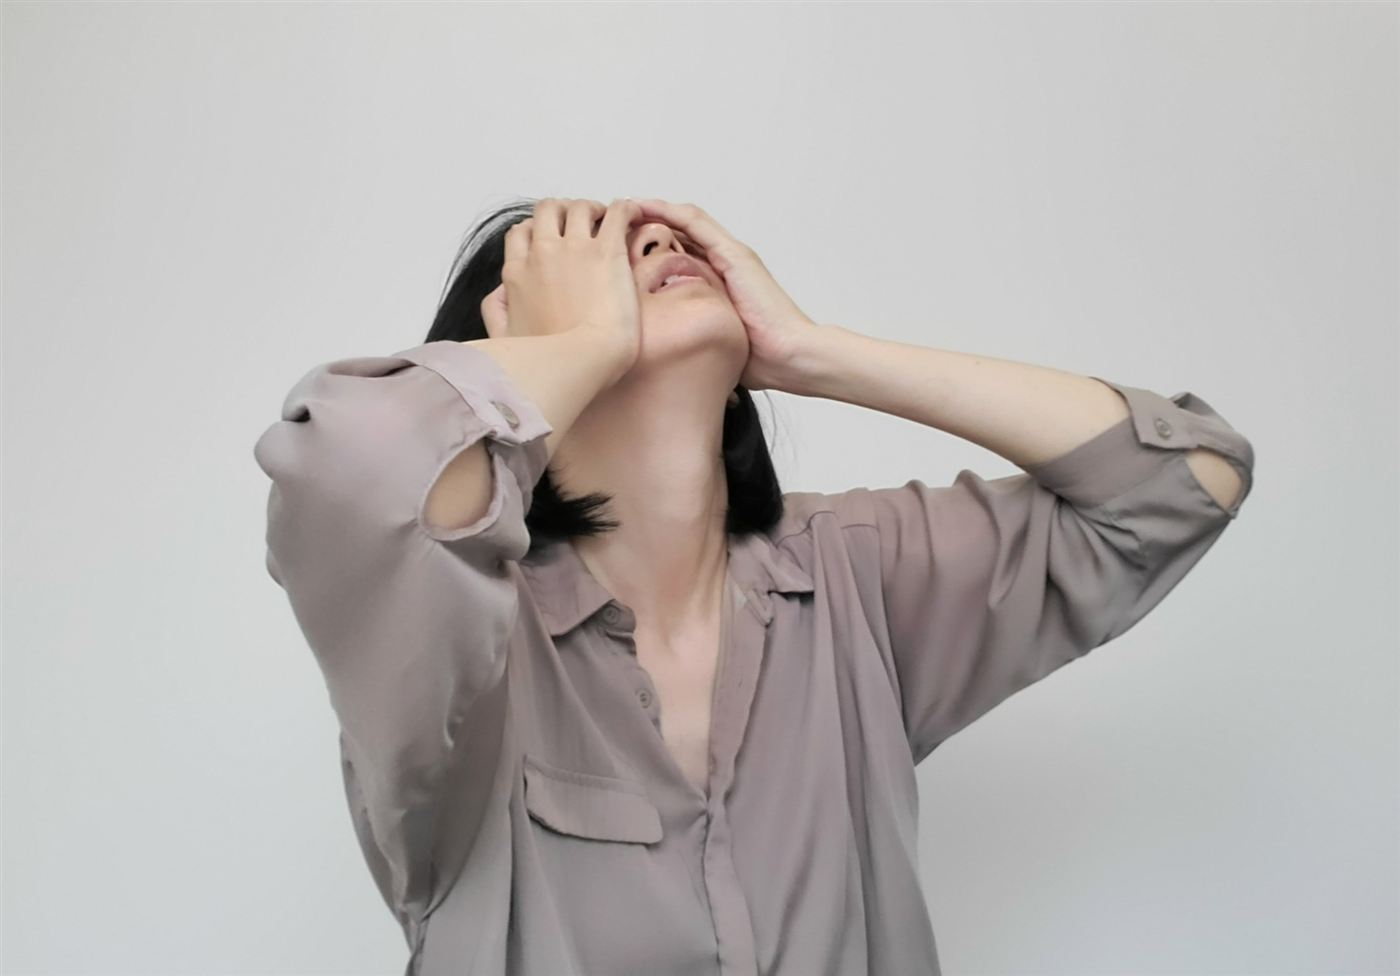
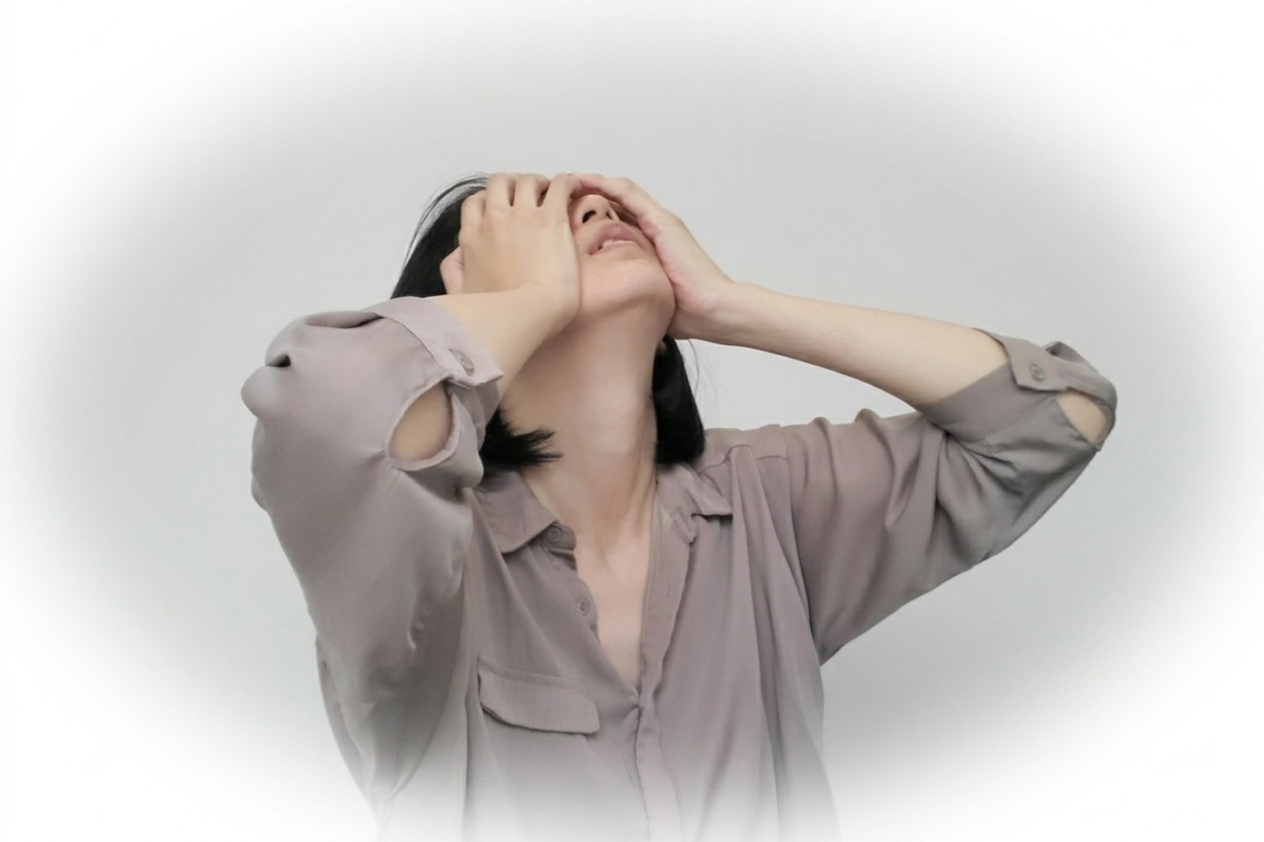
EQコアカード：05の写真3枚と08のセミナー写真を、縁を整えた新しい画像に差し替え／06の女性を明るく
- 新しい画像は周りがすでに白くぼかしてあるので、切り抜かず全体を表示し、ぼかしは継ぎ目を消す程度に
- 06：背景の女性をはっきり見えるよう明るくし、まわりの暗いぼかしはそのまま。写真に重なる説明文には薄い下地を付けて読みやすく

diff --git a/css/corecard.css b/css/corecard.css
@@ -385,3 +385,28 @@
   -webkit-mask-composite:source-in;
   mask-image:linear-gradient(90deg,transparent,#000 9%,#000 91%,transparent),linear-gradient(180deg,transparent,#000 7%,#000 93%,transparent);
   mask-composite:intersect}
+
+/* ---------- 2026-10-09b: the 05 and 08 photos arrive already feathered to white, so only a hairline blend remains ---------- */
+.cc-row--1 .cc-row__img::after,.cc-row--2 .cc-row__img::after,.cc-row--3 .cc-row__img::after{inset:0;box-shadow:inset 0 0 18px 6px var(--white)}
+.cc-photo--seminar img{
+  -webkit-mask-image:linear-gradient(90deg,transparent,#000 3%,#000 97%,transparent),linear-gradient(180deg,transparent,#000 3%,#000 97%,transparent);
+  mask-image:linear-gradient(90deg,transparent,#000 3%,#000 97%,transparent),linear-gradient(180deg,transparent,#000 3%,#000 97%,transparent)}
+.cc-row--1 .cc-row__img img,.cc-row--2 .cc-row__img img,.cc-row--3 .cc-row__img img{object-position:50% 50%}
+/* 06: the woman behind the words is clearly visible; the dark feather around her stays */
+.cc-photo--proc{--po:.92}
+.cc-photo--proc img{filter:brightness(1.12) saturate(.95)}
+.cc-proc__list .w{text-shadow:0 2px 24px rgba(13,20,36,.55)}
+.cc-proc__list .d{text-shadow:0 1px 10px rgba(13,20,36,.8)}
+/* the new photos are 3:2 with their own white vignette: show them whole, never cropped */
+.cc-sec.cc-words .cc-row--1 .cc-row__img,.cc-sec.cc-words .cc-row--2 .cc-row__img,.cc-sec.cc-words .cc-row--3 .cc-row__img{aspect-ratio:3/2;height:auto !important;max-height:none}
+.cc-sec.cc-words .cc-row--1 .cc-row__img{grid-column:6 / 13}
+.cc-sec.cc-words .cc-row--2 .cc-row__img{grid-column:1 / 7}
+.cc-sec.cc-words .cc-row--3 .cc-row__img{grid-column:1 / 8;margin-left:calc(var(--gx) * -1)}
+.cc-sec.cc-words .cc-row--1 .cc-row__text{grid-column:1 / 6}
+.cc-sec.cc-words .cc-row--3 .cc-row__text{grid-column:8 / 13;padding-left:clamp(10px,2vw,30px)}
+.cc-photo--seminar{aspect-ratio:3/2}
+.cc-proc__list .d{text-shadow:0 0 6px rgba(13,20,36,.95),0 0 14px rgba(13,20,36,.85),0 1px 2px rgba(13,20,36,.9)}
+.cc-photo--proc img{filter:brightness(1.05) saturate(.95)}
+.cc-row--1 .cc-row__img::after,.cc-row--2 .cc-row__img::after,.cc-row--3 .cc-row__img::after{inset:0;box-shadow:inset 0 0 30px 12px var(--white)}
+/* 06 captions that sit on the brighter photo get a soft dark backing so they stay readable */
+.cc-proc__list .d{color:var(--paper);justify-self:start;padding:6px 12px;border-radius:8px;background:rgba(13,20,36,.5)}
